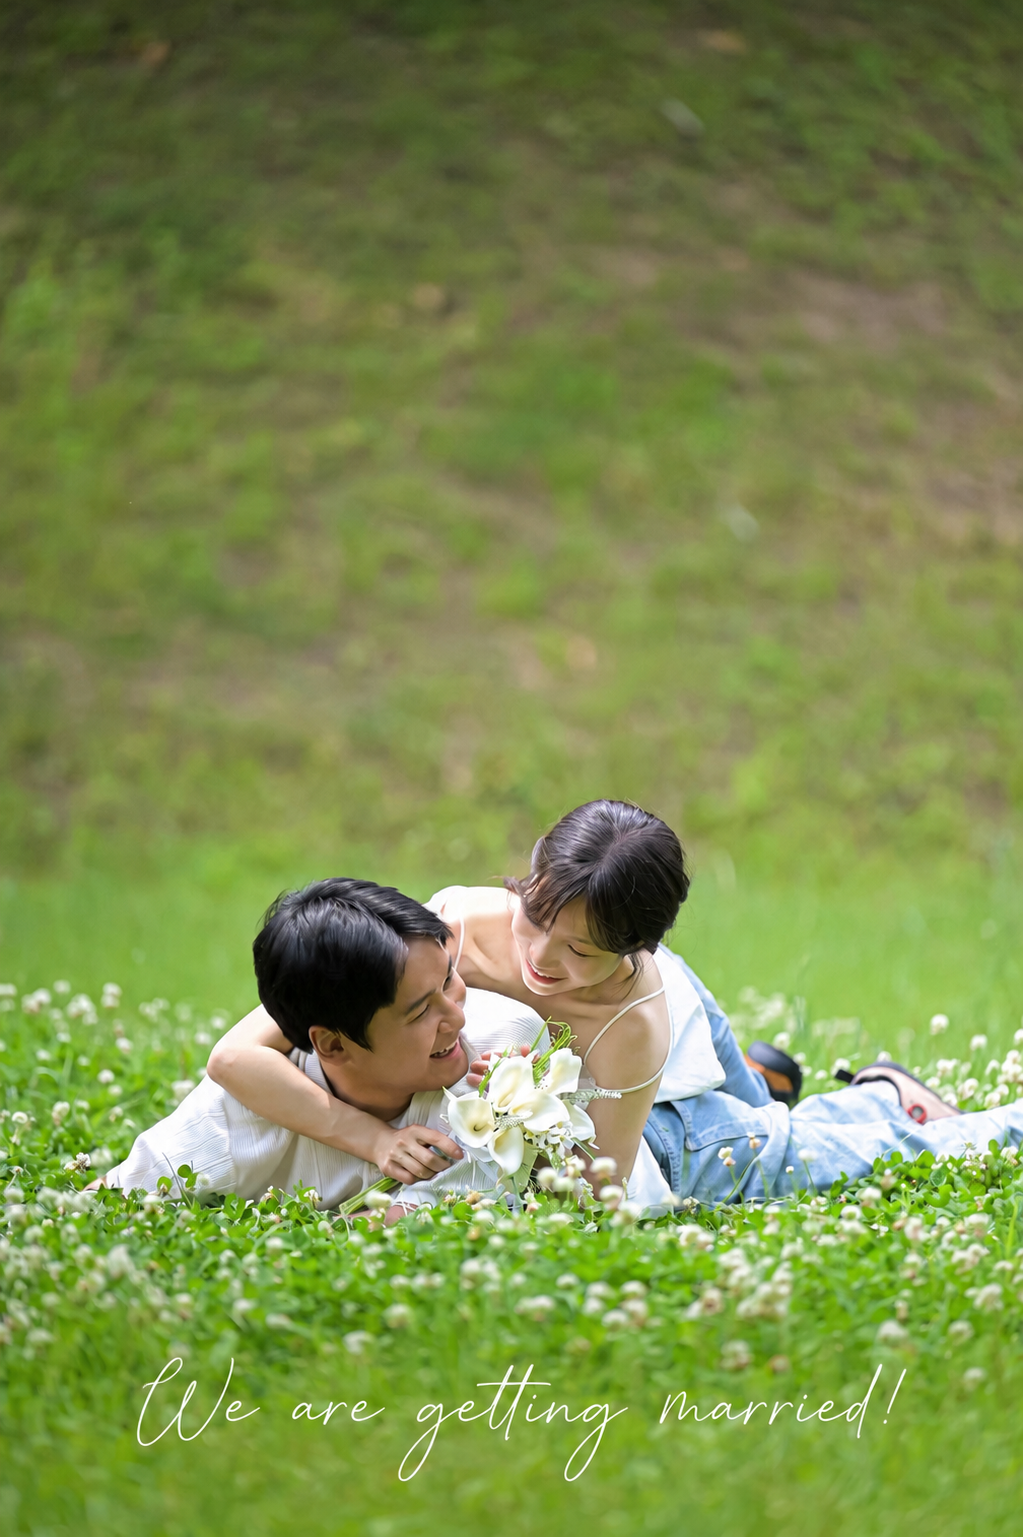
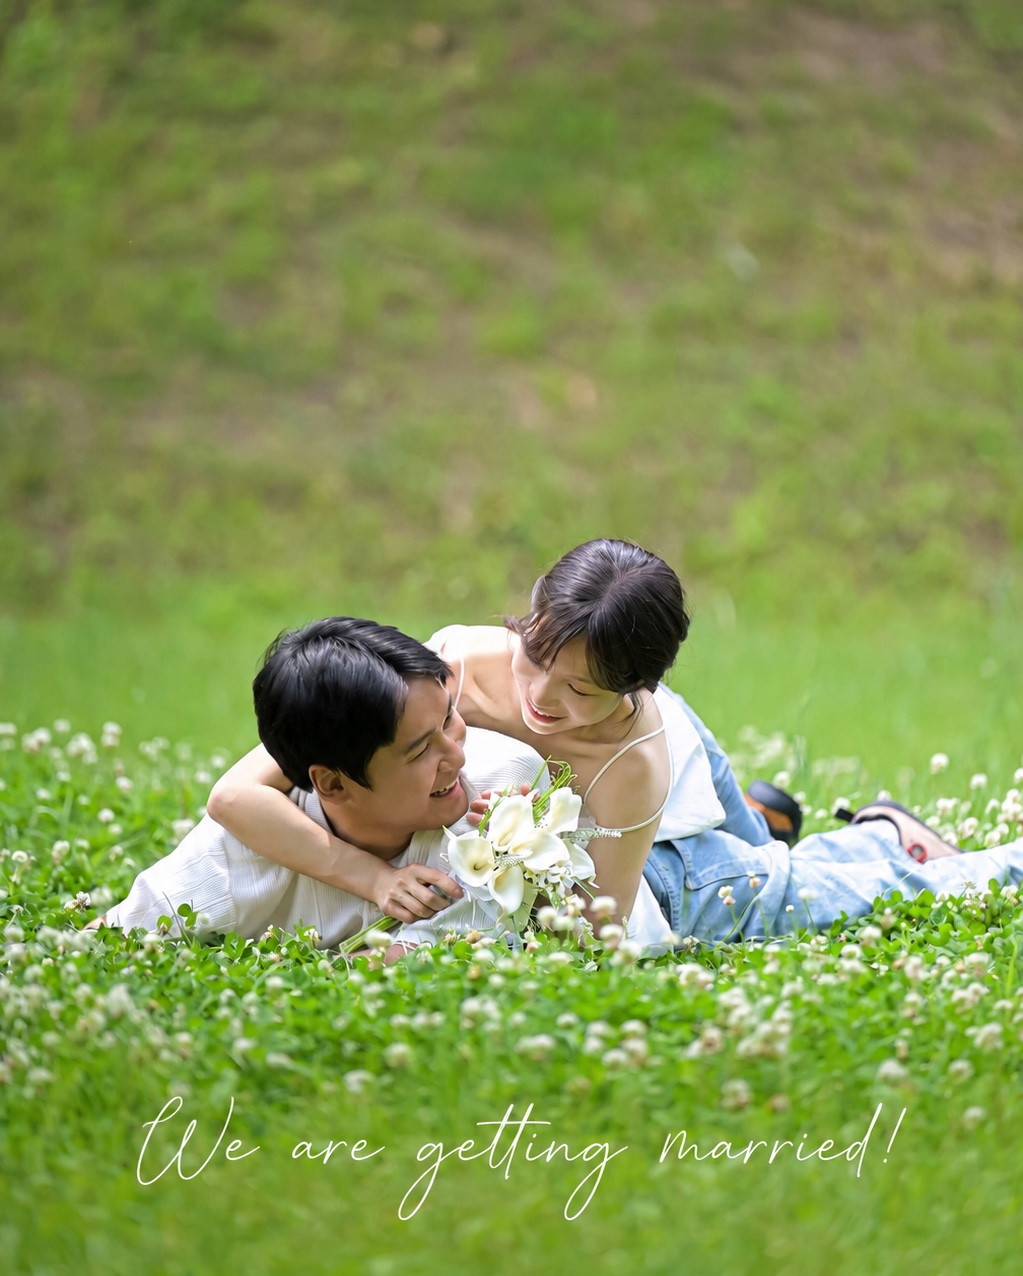
image modify

diff --git a/our-wedding/src/components/sections/QnASection.css b/our-wedding/src/components/sections/QnASection.css
@@ -7,7 +7,7 @@
 }
 
 .qna .invitation {
-  padding: 30px 30px 30px;
+  padding: 30px 20px 30px;
   border-radius: 0;
   background: #ffffff;
   border: 0;
@@ -28,7 +28,7 @@
 }
 
 .qna .qna-item {
-  padding: 8px 6px;
+  padding: 8px 0;
   border-radius: 8px;
   background: transparent;
 }
@@ -50,7 +50,8 @@
 .qna .qna-message {
   display: flex;
   align-items: flex-end;
-  gap: 10px;
+  gap: 8px;
+  width: 100%;
 }
 
 .qna .qna-message--left {
@@ -70,7 +71,7 @@
   display: flex;
   align-items: flex-start;
   gap: -10px;
-  margin-right: 10px;
+  margin-right: 8px;
 }
 
 .qna .qna-avatar-group .qna-avatar {
@@ -83,9 +84,10 @@
 }
 
 .qna .qna-bubble {
-  width: auto;
-  max-width: 110%;
-  min-width: 48%;
+  flex: 1 1 auto;
+  width: fit-content;
+  max-width: calc(100% - 48px);
+  min-width: 0;
   padding: 12px 16px;
   border-radius: 999px;
   box-shadow: 0 4px 10px rgba(15, 18, 24, 0.08);
@@ -109,7 +111,7 @@
 
 .qna .qna-bubble--joint {
   background: linear-gradient(135deg, rgba(129, 216, 208, 0.28), rgba(249, 238, 215, 0.34));
-  max-width: 84%;
+  max-width: calc(100% - 76px);
   --bubble-bg: rgba(188, 203, 214, 0.7);
 }
 
@@ -146,14 +148,15 @@
   color: #2e2e2e;
   font-family: inherit;
   line-height: 1.65;
-  word-break: break-word;
+  word-break: keep-all;
+  overflow-wrap: anywhere;
+  text-wrap: pretty;
 }
 
 .qna .qna-text span {
-  display: block;
-  margin-bottom: 4px;
+  display: inline;
 }
 
-.qna .qna-text span:last-child {
-  margin-bottom: 0;
+.qna .qna-text span:not(:last-child)::after {
+  content: ' ';
 }

diff --git a/our-wedding/src/components/sections/QnASection.tsx b/our-wedding/src/components/sections/QnASection.tsx
@@ -1,5 +1,6 @@
-import { motion, useReducedMotion } from 'framer-motion'
+import { motion, useReducedMotion } from 'framer-motion'
 import './QnASection.css'
+import honeymoonProfile from '../../images/9.jpg'
 import youngSeohyun from '../../images/youngseohyun.png'
 import youngYoonsoo from '../../images/youngyoonsoo.png'
 
@@ -12,12 +13,13 @@ type QnAItem = {
   seohyun?: string
   yoonsoo?: string
   joint?: string
+  profileImage?: string
 }
 
 const splitSentences = (text?: string) =>
   text
     ? text
-        .split(/(?<=[.?!])\s+/)
+        .split(/(?<=[.!])\s*/)
         .map(sentence => sentence.trim())
         .filter(Boolean)
     : []
@@ -29,17 +31,18 @@ const QUESTIONS: QnAItem[] = [
     yoonsoo: '윤수: 예쁘고 밝은 친구라는 첫인상이었어요. 대화를 해보니 다정한 친구라는 걸 알게 되었어요.'
   },
   {
-    q: '데이트 할 때 메뉴를 더 못 고르는 사람은?',
+    q: '데이트 때 메뉴를 못 고르는 사람은?',
     seohyun: '서현: 윤수는 분명 저라고 할 거예요. 하지만 저는 못 고르는 게 아니라… 상대가 먹고 싶은 걸 먼저 생각하는 편입니다.😉',
     yoonsoo: '윤수: 서현이가 항상 더 못 고르는 편이었어요. 메뉴판을 보면 한참을 보다가 결국엔 제가 고르게 되더라고요.'
   },
   {
     q: '신혼 여행지는 어디인가요?',
-    joint: '서현·윤수: 가을 스페인을 꿈꿨지만, 예상보다 오른 유류할증료에 잠시 보류!🥹 대신 겨울쯤 따뜻한 휴양지로 떠날 예정이에요. 결혼식이 끝난 후, 여유롭게 정해보려고 합니다.'
+    profileImage: honeymoonProfile,
+    joint: '가을 스페인을 꿈꿨지만, 예상보다 오른 유류할증료에 잠시 보류!🥹 대신 겨울쯤 따뜻한 휴양지로 떠날 예정이에요. 결혼식이 끝난 후, 여유롭게 정해보려고 합니다.'
   },
   {
     q: '결혼 후 가장 기대되는 것은?',
-    seohyun: '서현: 윤수가 차려주는 따뜻한 밥상...? 🤭🍚',
+    seohyun: '서현: 윤수가 차려주는 따뜻한 밥상? 🤭🍚',
     yoonsoo: '윤수: 퇴근 후 집에서 서현과의 시간'
   }
 ]
@@ -79,10 +82,14 @@ export default function QnASection({ id = 'qna' }: QnASectionProps) {
               <div className="qna-answer">
                 {item.joint ? (
                   <div className="qna-message qna-message--joint">
-                    <div className="qna-avatar-group">
-                      <img className="qna-avatar" src={youngSeohyun} alt="서현" />
-                      <img className="qna-avatar" src={youngYoonsoo} alt="윤수" />
-                    </div>
+                    {item.profileImage ? (
+                      <img className="qna-avatar" src={item.profileImage} alt="" />
+                    ) : (
+                      <div className="qna-avatar-group">
+                        <img className="qna-avatar" src={youngSeohyun} alt="서현" />
+                        <img className="qna-avatar" src={youngYoonsoo} alt="윤수" />
+                      </div>
+                    )}
                     <div className="qna-bubble qna-bubble--joint">
                       <div className="qna-text">
                         {splitSentences(item.joint).map((sentence, index) => (

diff --git a/our-wedding/src/components/OpeningScreen.css b/our-wedding/src/components/OpeningScreen.css
@@ -113,16 +113,16 @@
 }
 
 .airdrop-preview {
-  height: auto;
+  height: clamp(190px, 58vw, 200px);
   background: rgba(0, 0, 0, 0.04);
   overflow: hidden;
 }
 
 .airdrop-preview-img {
   width: 100%;
-  height: auto;
-  object-fit: contain;
-  object-position: center;
+  height: 100%;
+  object-fit: cover;
+  object-position: center 68%;
   background: transparent;
   display: block;
 }